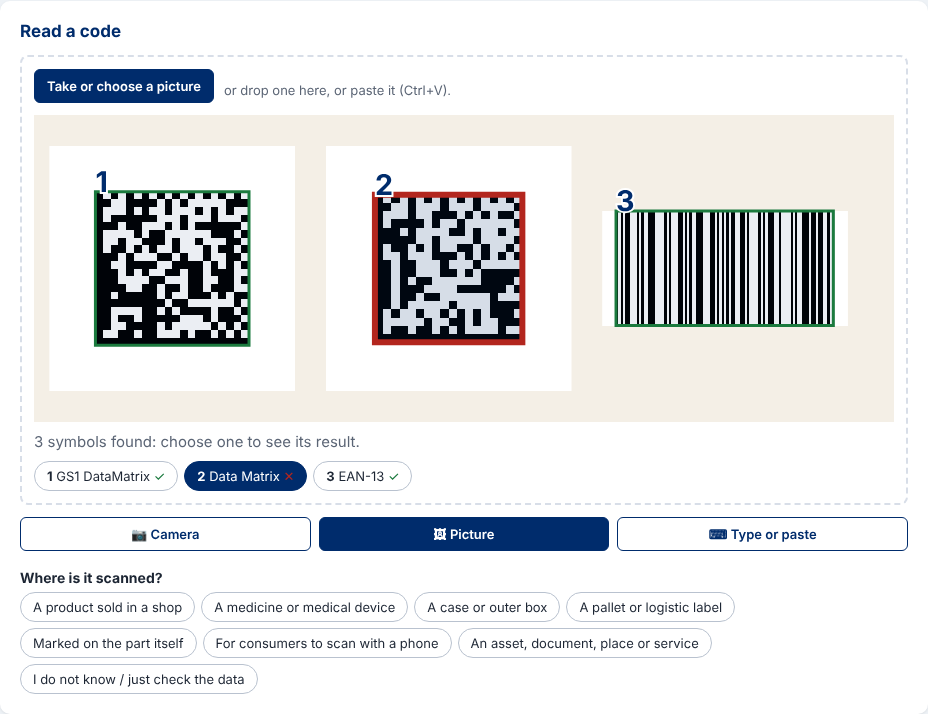
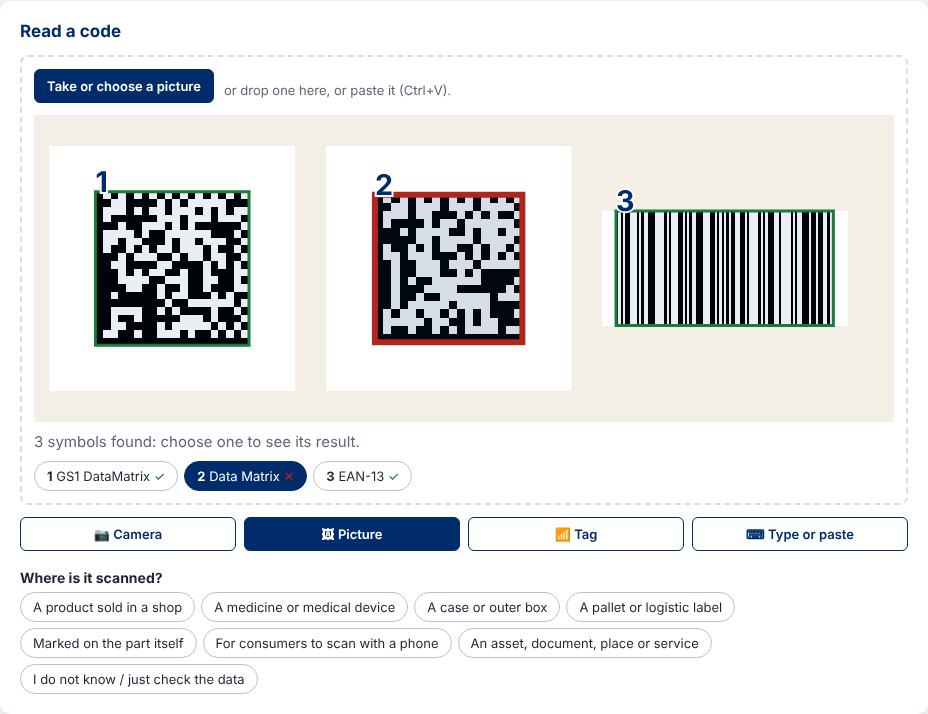
docs: the Check Studio's scanner, NFC tags and EPCs in features, the user guide, ADR 0007, the backlog, the API reference and the inventory (2,693 tests)
ADR 0007 decision 14 records how a scanner is known, the three faults named, and Tag holding NFC and RFID together.
The user guide's Check Studio steps gain Tag and the scanner's help; check.png and check-picture.png show the four
ways in.

Claude-Session: https://claude.ai/code/session_01AV1osuu6Ztavd16qwvkDRj

diff --git a/docs/test-inventory.md b/docs/test-inventory.md
@@ -1,6 +1,6 @@
 # Inventory of features from the tests
 
-Every test of the core's suite, of the web application's unit tests and of the editor's browser tests on 2026-11-16: 2,675 tests in 65 files. Each line is a test's name, a sentence that says what is true when it passes; together they say what the studio does and that it works. Each feature of [features.md](features.md) names the tests that prove it. Generated by `node scripts/inventory.mjs` from a complete run of the core's tests and the list of the browser tests ([ADR 0005](adr/0005-documentation-and-feature-inventory.md)); do not edit by hand.
+Every test of the core's suite, of the web application's unit tests and of the editor's browser tests on 2026-11-16: 2,693 tests in 67 files. Each line is a test's name, a sentence that says what is true when it passes; together they say what the studio does and that it works. Each feature of [features.md](features.md) names the tests that prove it. Generated by `node scripts/inventory.mjs` from a complete run of the core's tests and the list of the browser tests ([ADR 0005](adr/0005-documentation-and-feature-inventory.md)); do not edit by hand.
 
 Every unit test ran and passed in the run that wrote this file, the ZPL printed by Labelary included (`LABELARY=1`), but the documents' own test (`docs`), which checks this file and runs right after it is written. The browser tests are listed by Playwright and run by CI against the built application, on a desktop, a phone and a tablet held horizontally (a test about one layout is skipped in the others).
 
@@ -12,12 +12,12 @@ Every unit test ran and passed in the run that wrote this file, the ZPL printed 
 | [Exports and prepress: SVG, PNG, PDF, EPS, zip](#exports-and-prepress-svg-png-pdf-eps-zip) | `prepress`, `render`, `roundtrip` | 60 |
 | [In bulk: rows, the report, sequences, generation](#in-bulk-rows-the-report-sequences-generation) | `batch`, `bulk`, `report`, `sequence`, `table` | 167 |
 | [Printers: the dot grid, profiles, ZPL, TSPL, EPL2, DPL, PPLA and PPLB](#printers-the-dot-grid-profiles-zpl-tspl-epl2-dpl-ppla-and-pplb) | `argox`, `dots`, `labelary`, `printer`, `printlangs`, `zpl` | 257 |
-| [RFID, NFC and digital signatures](#rfid-nfc-and-digital-signatures) | `epc`, `epcPlus`, `ndef`, `sign` | 1,286 |
-| [The Check Studio: a code read to be checked](#the-check-studio-a-code-read-to-be-checked) | `camera`, `check`, `check-group`, `check-studio`, `engine-map`, `faults`, `reading` | 170 |
+| [RFID, NFC and digital signatures](#rfid-nfc-and-digital-signatures) | `epc`, `epcPlus`, `ndef`, `sign` | 1,288 |
+| [The Check Studio: a code read to be checked](#the-check-studio-a-code-read-to-be-checked) | `camera`, `check`, `check-group`, `check-studio`, `engine-map`, `faults`, `reading`, `wedge` | 178 |
 | [The work saved on one's own computer and opened again](#the-work-saved-on-ones-own-computer-and-opened-again) | `lastwork`, `opened`, `work` | 9 |
 | [The interface's languages: English, Brazilian Portuguese, Spanish, French, German, Italian](#the-interfaces-languages-english-brazilian-portuguese-spanish-french-german-italian) | `i18n` | 15 |
 | [The documents](#the-documents) | `docs` | 7 |
-| [The editor in the browser (Playwright, desktop, phone and tablet)](#the-editor-in-the-browser-playwright-desktop-phone-and-tablet) | `routes`, `tour`, `check-camera`, `check-result`, `editor`, `layouts`, `studios` | 158 |
+| [The editor in the browser (Playwright, desktop, phone and tablet)](#the-editor-in-the-browser-playwright-desktop-phone-and-tablet) | `routes`, `tour`, `check-camera`, `check-result`, `check-scan`, `editor`, `layouts`, `studios` | 166 |
 
 ## Input and identification: the Syntax Engine, keys, qualifiers, attributes
 
@@ -2556,13 +2556,15 @@ Every unit test ran and passed in the run that wrote this file, the ZPL printed 
 
 </details>
 
-<details><summary><code>ndef</code> — 5 tests (<code>packages/core/test/ndef.test.ts</code>)</summary>
+<details><summary><code>ndef</code> — 7 tests (<code>packages/core/test/ndef.test.ts</code>)</summary>
 
 - an NDEF URI record › abbreviates https:// as code 4 in a short record: D1 01 length 55 04 and the rest
 - an NDEF URI record › takes the longest prefix (https://www. over https://), urn:epc:id: for an EPC, none for an unknown scheme
 - an NDEF URI record › writes a long record with a four-byte length, and reads one with an ID
 - an NDEF message's records (the Check Studio, I3) › lists every record in its order, and finds the first URI record wherever it is
 - an NDEF message's records (the Check Studio, I3) › stops at the record marked last, and refuses a message cut inside a record
+- an NDEF message made of records (the Check Studio's NFC reading, 7.1 h) › gives the same bytes as a URI record written alone
+- an NDEF message made of records (the Check Studio's NFC reading, 7.1 h) › marks the first record MB and the last ME, short records under 256 bytes, and reads back as given
 
 </details>
 
@@ -2786,6 +2788,19 @@ Every unit test ran and passed in the run that wrote this file, the ZPL printed 
 
 </details>
 
+<details><summary><code>wedge</code> — 8 tests (<code>apps/web/test/wedge.test.ts</code>)</summary>
+
+- a scanner's rhythm › takes keystrokes a few milliseconds apart, ended by Enter, as a scan
+- a scanner's rhythm › does not take a person's typing, a short burst or a late Enter as a scan
+- a scanner's rhythm › starts again after a pause: what a person typed before the scan is not part of it
+- a keyboard layout's damage › is undone character by character
+- a keyboard layout's damage › is offered when undoing it brings back the identifier or the digits, layouts with the same result together
+- a keyboard layout's damage › is not offered for a scan that is already well formed
+- an NFC tag read by Web NFC › gives each record back as the NDEF record it was
+- an NFC tag read by Web NFC › makes a message the core reads as it reads an .ndef file, the URI found where it is
+
+</details>
+
 ## The work saved on one's own computer and opened again
 
 <details><summary><code>lastwork</code> — 3 tests (<code>apps/web/test/lastwork.test.ts</code>)</summary>
@@ -2892,6 +2907,19 @@ Every unit test ran and passed in the run that wrote this file, the ZPL printed 
 - Make it right opens the Barcode Studio with the data made right
 - the result in Portuguese, the engine's English message beside its translation
 - the editor's Identify card links to the Check Studio with its data
+
+</details>
+
+<details><summary><code>check-scan</code> — 8 tests (<code>apps/web/e2e/check-scan.spec.ts</code>)</summary>
+
+- a scan with \]d2 and a separator is checked as the camera's reading of the same symbol, marked as a scanner's
+- a scan without its identifier asks for the symbol and says how to switch AIM ID on
+- Ctrl+\] typed by hand puts a group separator where the cursor is
+- a lost separator is told as the code's or the scanner's, with the scanner's set-up
+- a scan typed on another keyboard layout is offered as the scanner meant it
+- an NFC tag held to the phone: its records listed, a link not first is fault I3
+- without Web NFC the screen says what works instead, shows no dead button, and opens an .ndef file
+- a pasted SGTIN-96 shows its GTIN and serial, and its GS1 Digital Link URI in the expert view
 
 </details>
 

diff --git a/docs/user-guide.md b/docs/user-guide.md
@@ -76,8 +76,8 @@ another studio.
 ![The Check Studio with the worked example: the verdict, what the code says and three cards](images/guide/check.png)
 
 1. Open **Check Studio** on the start page (or `#/check`). Under **Read a code**, three buttons choose how the code
-   comes in: **Camera**, **Picture** and **Type or paste**. A phone or a tablet opens on the camera, a computer on the
-   text.
+   comes in: **Camera**, **Picture**, **Tag** and **Type or paste**. A phone or a tablet opens on the camera, a
+   computer on the text.
 2. With **Camera**, press **Start the camera** and allow it when the browser asks; point it at the code, which is read
    by itself, with a tone and a vibration where the phone allows. The result opens below and the camera pauses;
    **Scan another** starts it again. Where the phone offers them, **Torch** lights the code and **Zoom** brings it
@@ -92,21 +92,34 @@ another studio.
 
 ![A picture of three symbols: each outlined, numbered and coloured by its verdict, the second chosen](images/guide/check-picture.png)
 
-4. With **Type or paste**, under **What the code holds**, paste or type what the code carries, or scan it with a scanner connected as a
+4. With **Tag**, read an NFC tag or an RFID tag's EPC. On an Android phone with Chrome, press **Read an NFC tag** and
+   hold the tag to the back of the phone: every record on it is listed, and its link is checked (a link that is not
+   the tag's first record, or not https, is reported). Other browsers cannot read NFC tags; the screen says so: on an
+   iPhone, hold the tag near the top of the phone, which opens its link, and paste that link under **Type or paste**;
+   or press **Open an .ndef file** for the file an NFC app saved. For an RFID tag, paste its EPC as hexadecimal
+   (`3034…`) or as a URI (`urn:epc:…`), or read it with an RFID reader set as a keyboard: the key and the serial it
+   carries are shown, and its GS1 Digital Link URI in the expert view.
+5. With **Type or paste**, under **What the code holds**, paste or type what the code carries, or scan it with a scanner connected as a
    keyboard. A separator can be typed as `<GS>`, `{GS}` or `\x1D`. **Try an example** fills in the example of the
    project: an ordinary Data Matrix with the brackets encoded and a month 13.
-5. Under **The symbol it came from**, say which symbol it was, when you know; a scanner that sends its symbology
+   A scanner connected as a keyboard is recognised by its speed: the code is checked as soon as it sends Enter, and
+   *Read from a scanner in keyboard mode* says so. When the scanner sends no symbology identifier, the studio asks
+   which symbol it was and says how to switch on the scanner's *AIM ID* setting. When a separator seems missing, the
+   card says the code may lack it or the scanner may drop it, and how to set the scanner up. When the scanner types on a
+   different keyboard layout (`+d2…` or `$d2…` instead of `]d2…`, or French AZERTY's `&é"'(` instead of digits), the
+   studio offers what it meant: **Use this**.
+6. Under **The symbol it came from**, say which symbol it was, when you know; a scanner that sends its symbology
    identifier (`]d2`, `]Q3`, `]C1`…) at the start says it by itself. *Not known* lets the data decide.
-6. Under **Where is it scanned?**, choose the place: a shop, a medicine or medical device (then the pharmacy, the
+7. Under **Where is it scanned?**, choose the place: a shop, a medicine or medical device (then the pharmacy, the
    pharmacy and warehouse, or a hospital), a case, a pallet, the part itself, a phone, an asset, or *I do not know*.
    Changing it checks the same data again. Without it, whether the symbol suits its place is listed as not checked.
-7. **The result** opens in the **Simple** view: the verdict with its icon and word (*Follows the GS1 rules*, *Works,
+8. **The result** opens in the **Simple** view: the verdict with its icon and word (*Follows the GS1 rules*, *Works,
    with remarks*, *Does not follow the GS1 rules*, *Not a GS1 code*), what the code says (each data title in your
    language with its value, a date written out), then a card per problem, the worst first, each saying what is wrong,
    where (the code's text with the part highlighted), why it matters and how to fix it, and who does it. When the data
    can be made right, **Make it right** opens the Barcode Studio with it. **What was not checked** ends the list; print
    quality is never graded here, since that needs a barcode verifier.
-8. **Expert** shows the same result in detail: the reading (the symbology identifier and the repairs tried), the raw
+9. **Expert** shows the same result in detail: the reading (the symbology identifier and the repairs tried), the raw
    bytes in hexadecimal and as text with the problems' bytes highlighted and three copy buttons, the element strings,
    the other syntaxes (bracketed, the engine's notation, the GS1 Digital Link URI) when the data is valid, each finding
    with its code, the General Specifications sections, the GS1 Barcode Syntax Engine's own message in English beside

diff --git a/docs/features.md b/docs/features.md
@@ -120,6 +120,7 @@ Which standard each follows: [conformance](conformance.md).
 | The start page and the studios' addresses | Backlog 7.1 e, ADR 0007: the address of the tool opens on its studios as cards; the Label Studio (`#/label`, the editor as before) and the Barcode Studio (`#/barcode`, the same editor with the barcode alone) are links, the RFID Studio named and marked coming soon (the Check Studio too, until 7.1 f); the name in the header leads back; Back and Forward move between studios and what was typed is kept; the installed application offers both studios as shortcuts | `474fa24` | `studios`: the root offers the studios · `studios`: the keyboard reaches each studio · `studios`: back and forward move between studios · `studios`: the installed application offers · `routes`: parseRoute › the root, with or without a hash |
 | The Check Studio's result | Backlog 7.1 f, ADR 0007: at `#/check`, what a code holds pasted or typed (a scanner in keyboard mode), the symbol it came from and where it is scanned (eight places, two with a follow-up question) checked by the core's `check()`; the simple view gives the verdict with an icon and a word, what the code says with the data titles in the user's language, a card per finding (what, where with the code's text highlighted, why it matters, how to fix and who does it; *Make it right* opening the Barcode Studio with the data made right) and what was not checked; the expert view the reading, the bytes in hexadecimal and as text with three copy buttons, the element strings, the other syntaxes, the findings with their codes, sections and the engine's English message beside its translation, the context and the versions; the 77 faults told in plain words in six languages; the editor's Identify card links to the studio with its data | `1555ccc` | `check-result`: the worked example · `check-result`: choosing where the code is scanned · `check-result`: Make it right · `check-result`: the result in Portuguese · `check-result`: the editor's Identify card · `check-studio`: cover every fault · `check-studio`: maps each choice |
 | The Check Studio's camera and pictures | Backlog 7.1 g, ADR 0007 decision 13: three ways in under *Read a code* (Camera, Picture, Type or paste), a touch screen opening on the camera; the camera started on a press, its frames read by ZXing in a worker for their bytes and symbology identifier, the same symbol counted once in three seconds, a tone and a vibration, the stream stopped when the result opens, when the tab is hidden and when the studio is left, a torch and a zoom where the camera offers them, a refused, missing or busy camera said so with a picture offered instead; a picture chosen, taken, dropped or pasted, every symbol found outlined, numbered and coloured by its verdict, one chosen showing its result; no barcode found says what cannot be read here (GS1 DotCode, a Composite's 2D part) and *There is a code here that is not read* gives fault A9; a linear symbol read this way lists its Composite part as not checked | `a5050d7` | `check-camera`: on a touch screen · `check-camera`: the camera reads a code · `check-camera`: the camera stops · `check-camera`: a torch and a zoom · `check-camera`: a refused camera · `check-camera`: a picture of three symbols · `check-camera`: a picture with no barcode · `check-camera`: a picture pasted or dropped · `camera`: name a refused · `camera`: offer a torch · `camera`: counts once · `camera`: keep the decoder's bytes · `camera`: say when a linear symbol |
+| The Check Studio's scanner, NFC tags and EPCs | Backlog 7.1 h, ADR 0007 decision 14: a scanner in keyboard mode told from typing by its rhythm, its scan checked at once and marked as a scanner's, Ctrl+] as the group separator; the scanner's three faults named rather than blamed on the code: no symbology identifier sent (the symbol asked, and how to switch on AIM ID), the separator lost (the B3 card says the code may lack it or the scanner may drop it, with the set-up), another keyboard layout (AZERTY, QWERTZ, ABNT2, Spanish, Italian undone and offered: *Use this*); a fourth way in, *Tag*: an NFC tag read with Web NFC on Android and its every record listed, I3 and group G applied; without Web NFC what works instead said (an iPhone opens the link itself; an .ndef file opened) and no dead button; an RFID tag's EPC pasted or typed, a classic EPC read with the application's EPC tables, its key, serial and GS1 Digital Link URI shown | `fdce310` | `check-scan`: a scan with ]d2 · `check-scan`: a scan without its identifier · `check-scan`: Ctrl+] typed by hand · `check-scan`: a lost separator · `check-scan`: a scan typed on another keyboard layout · `check-scan`: an NFC tag held to the phone · `check-scan`: without Web NFC · `check-scan`: a pasted SGTIN-96 · `wedge`: takes keystrokes · `wedge`: is undone character by character · `wedge`: is offered when undoing · `wedge`: gives each record back · `wedge`: makes a message · `ndef`: marks the first record MB |
 
 ## Exports and prepress
 

diff --git a/docs/developer-guide.md b/docs/developer-guide.md
@@ -321,7 +321,7 @@ that say what is true; together they are the [inventory of features](test-invent
 | `design` | a label of one's own: barcodes, text blocks, lines, boxes and images on a page, read back, in bulk | 22 |
 | `templates` | labels by segment: each template's page whole and read back, step 2 offering its symbol; step 1's data kept, examples added, the rest named | 12 |
 | `picture` | an image as a one-bit picture: its pixels, its size at a printer's dots, its rectangles | 9 |
-| `ndef` | NDEF URI records | 5 |
+| `ndef` | NDEF URI records | 7 |
 | `prepress` | EPS through Ghostscript, 100 % K, bar width reduction, PNG at a resolution | 15 |
 | `printer` | the module in whole dots, profiles, the test label | 6 |
 | `pyformat` | Python's fixed-point rounding | 2 |
@@ -331,6 +331,7 @@ that say what is true; together they are the [inventory of features](test-invent
 | `check-group` | The Check Studio's context (group F), tags (group I) and several carriers of one item (group J), with the matrix of the project's section 5.3 | 18 |
 | `check-studio` | The Check Studio's result screen: the 77 faults told in plain words, one sentence each, and the places a code is scanned mapped to scanning environments | 3 |
 | `camera` | The Check Studio's camera and pictures without a camera: a refused, missing or busy camera named, the torch and zoom offered, the same symbol counted once in three seconds, the readings of a frame or a picture, the Composite part said to be left out, the symbols' names, a picture's size | 8 |
+| `wedge` | The Check Studio's scanner in keyboard mode and NFC tags without a screen: a scan told from typing by its rhythm, a keyboard layout's damage undone and offered (AZERTY, QWERTZ, ABNT2, Spanish, Italian), Web NFC's records made an NDEF message again and listed | 8 |
 | `faults` | The Check Studio's catalogue: the project's 77 codes and no other, each with its severity, four texts and a source; the table of `docs/conformance.md`, 3.2 | 9 |
 | `reading` | The Check Studio's reading record: what ZXing reads of every carrier, measured and held to `docs/conformance.md`; a scanner's text, an NFC tag, an EPC | 34 |
 | `render` | PNG, PDF and zip against the resolver, PDFs drawn by pdftoppm | 20 |
@@ -359,6 +360,7 @@ that say what is true; together they are the [inventory of features](test-invent
 | `studios` | the start page and the studios' addresses in a browser: one tap to the editor, the keyboard, back and forward, what was typed kept, the shortcuts (Playwright) | 5 |
 | `check-result` | the Check Studio's result in a browser: the worked example's verdict, cards and expert panels, the place re-running the checks, Make it right, Portuguese, the Identify card's link (Playwright) | 5 |
 | `check-camera` | the Check Studio's camera and pictures in a browser: the camera first on a touch screen, a code read and the camera stopped, hidden and shown, left; torch and zoom; refused and missing; a picture of three symbols outlined and numbered; no barcode and fault A9; pasted and dropped (Playwright, a canvas stream as the camera) | 8 |
+| `check-scan` | the Check Studio's scanner, NFC tags and EPCs in a browser: a scan with ]d2 and a separator, a scan without identifier and AIM ID, Ctrl+] by hand, a lost separator told as the scanner's, another keyboard layout, an NFC tag's records and I3, no Web NFC and an .ndef file, a pasted SGTIN-96 (Playwright, a stand-in NDEFReader) | 8 |
 | `printlangs` | TSPL, EPL2 and DPL rendered by Labelize and read back; what they refuse | 130 |
 | `argox` | PPLA and PPLB as the DPL and EPL2 files Argox's manual allows, read back; what they refuse | 27 |
 

diff --git a/docs/core-api.md b/docs/core-api.md
@@ -2,7 +2,7 @@
 
 `@gs1-label-studio/core` (`packages/core`) holds every GS1 rule, encoder and exporter of the studio, with no user interface: the web application is one of its users, and a command line or an HTTP API could be others ([ADR 0001](adr/0001-browser-first-architecture.md)). It runs in the browser, in Web Workers and in Node 22.
 
-This reference lists the 546 names `packages/core/src/index.ts` exports, module by module, each with its declaration and the comment above it in the source. It is generated by `node scripts/api-reference.mjs`, and a test fails when it differs from the sources ([ADR 0005](adr/0005-documentation-and-feature-inventory.md)): do not edit it by hand. How the modules fit together: the [developer guide](developer-guide.md).
+This reference lists the 547 names `packages/core/src/index.ts` exports, module by module, each with its declaration and the comment above it in the source. It is generated by `node scripts/api-reference.mjs`, and a test fails when it differs from the sources ([ADR 0005](adr/0005-documentation-and-feature-inventory.md)): do not edit it by hand. How the modules fit together: the [developer guide](developer-guide.md).
 
 The package is not published to npm yet; inside the repository it is imported as `@gs1-label-studio/core`:
 
@@ -61,7 +61,7 @@ import { syntaxEngine, labelFor, labelSvg, labelPdf } from "@gs1-label-studio/co
 | [`sequence.ts`](#sequencets) | Serial numbers and SSCCs made in the studio. | 8 |
 | [`gs1128.ts`](#gs1128ts) | GS1-128 over several symbols: the split and the stack. | 4 |
 | [`sign.ts`](#signts) | GS1 digital signatures (JWS) and verifiable credentials. | 18 |
-| [`ndef.ts`](#ndefts) | NDEF URI records for NFC tags. | 7 |
+| [`ndef.ts`](#ndefts) | NDEF URI records for NFC tags. | 8 |
 | [`reading.ts`](#readingts) |  | 12 |
 | [`printer.ts`](#printerts) | Printer profiles, the module in whole dots, the print width. | 7 |
 | [`design.ts`](#designts) |  | 31 |
@@ -910,6 +910,7 @@ NDEF URI records for NFC tags.
 | Name | Kind | Declaration | Description |
 |---|---|---|---|
 | `firstUriRecord` | function | `function firstUriRecord(message: Uint8Array): { index: number; uri: string } \| null` | The first URI record of an NDEF message, wherever it is, and its place; null when it has none. |
+| `ndefMessage` | function | `function ndefMessage(records: readonly NdefRecord[]): Uint8Array&lt;ArrayBuffer&gt;` | An NDEF message of the records given, in order: the first marked MB, the last ME, each a short record when its payload is under 256 bytes (backlog 7.1 h: what Web NFC hands over as records, made a message again for `readingFromNdef()`). |
 | `ndefRecords` | function | `function ndefRecords(message: Uint8Array): NdefRecord[]` | The records of an NDEF message, in their order (chunked records are not joined: a GS1 tag holds none). |
 | `ndefRecordUri` | function | `function ndefRecordUri(record: NdefRecord): string` | The URI a URI record's payload holds: its identifier code's prefix, then the rest. |
 | `ndefUri` | function | `function ndefUri(message: Uint8Array): string` | The URI of an NDEF message's first record, which must be a URI record; an Error when it is not. |

diff --git a/docs/adr/0007-check-studio.md b/docs/adr/0007-check-studio.md
@@ -105,6 +105,20 @@ to put it right.
    checked. The browser tests play the camera as a canvas stream put in the place of `getUserMedia()` rather than
    Chromium's fake device with a clip, as the project planned: it runs in the three projects and can also play a
    refused, a missing and a torch-and-zoom camera; the frames still go through the video, the worker and ZXing.
+14. **A scanner is known by its rhythm; tags are read where the browser can, and said where it cannot** (7.1 h). In
+   the text field, four or more keystrokes no more than 50 ms apart ended by Enter are a scan (`wedge.ts`): it is
+   checked at once and marked as a scanner's, its Enter leaves no line break, and Ctrl+] types a group separator. The
+   three things a scanner gets wrong are named, not blamed on the code: no identifier sent (the symbol is asked, with
+   how to switch on AIM ID), the separator lost (B3 from keyboard text says the code may lack it or the scanner may
+   drop it, with the set-up), and a US-layout scanner on another keyboard layout (AZERTY, QWERTZ, ABNT2, Spanish and
+   Italian undone; offered only when that brings back an identifier or the digits). A fourth way in, Tag, holds NFC
+   and RFID together (mock-up A of two under the owner's rule; B gave each its own button, five in a row on a phone).
+   NFC is read by Web NFC where it exists; its records are made an NDEF message again (`nfc.ts`, the core's
+   `ndefMessage()`), so that a tag from the browser and an .ndef file from an NFC app are read by the same
+   `readingFromNdef()`, and every record is listed. Without Web NFC the screen says what works instead (an iPhone
+   opens the tag's link by itself; an .ndef file) and shows no dead button. No browser reads UHF RFID: the EPC is pasted
+   or typed by a reader in keyboard mode, and a classic EPC is read with the application's own EPC tables. The tag
+   writer of 1.19 now shares the Web NFC code.
 
 ## 3. Consequences
 

diff --git a/README.md b/README.md
@@ -883,7 +883,11 @@ now. 6.10 (the assistant, 13 November) before 6.4 and 6.5, which follow from it.
   the camera stopped when the result opens, the tab is hidden or the studio is left, torch and zoom where offered, a
   refused or missing camera said so with a picture offered instead; a picture chosen, taken, dropped or pasted, every
   symbol outlined, numbered and coloured by its verdict; what cannot be read (DotCode, a Composite's 2D part) named,
-  and a code not read recorded as fault A9*
+  and a code not read recorded as fault A9; 7.1 h done the same day: a scanner in keyboard mode told by its rhythm (a
+  scan checked at once, Ctrl+] as the separator), the scanner's three faults named rather than blamed on the code (no
+  identifier, the separator lost, another keyboard layout undone), and a fourth way in, Tag: NFC read with Web NFC on
+  Android and every record listed, an .ndef file elsewhere with what works instead said, an RFID tag's EPC pasted or
+  typed*
 
 
 ## Licence
